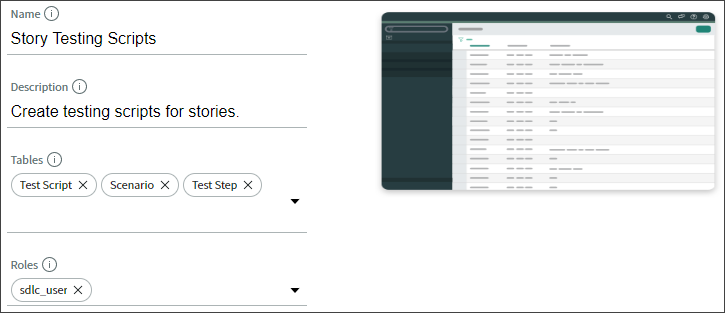
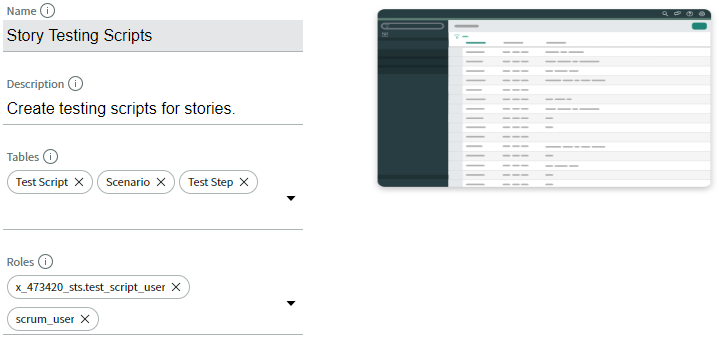
Fixed some issues
Fixed some grammatical mistakes and added new picture with two roles.

diff --git a/guidebook.md b/guidebook.md
@@ -8,17 +8,17 @@ Test scripts are sets of instructions that can be performed on a system to valid
 
 ## What are testing scripts and why should I use them?
 There are two applications in ServiceNow for executing test scripts: 
-Test Management: used to manage manual testing 
-Automated Test Framework: used for automated testing
+  * Test Management - used to manage manual testing 
+  * Automated Test Framework - used for automated testing
 
 In this lab, we will configure the platform to use both applications.
 
-To activate, in the application navigator, goto Plugins and activate each of the following plugins:
-a. Agile Development 2.0
-b. Agile development 2.0 ATF Tests
-c. Test Management 2.0
-d. Test Management 2.0 - ATF Tests 
-e. Automated Test Framework (already enabled)
+To activate, in the application navigator, go to Plugins and activate each of the following plugins:
+  * a. Agile Development 2.0
+  * b. Agile development 2.0 ATF Tests
+  * c. Test Management 2.0
+  * d. Test Management 2.0 - ATF Tests 
+  * e. Automated Test Framework (already enabled)
 
 ![](images/plugins.pdf)
 ![](images/plugins.png)
@@ -55,7 +55,8 @@ In this lab, we've identified a commonly used test template using excel. We've h
 ![](images/test_script_user_role.png)
 
 9. The role should now appear in the "Roles" list with the scope in front of it.
-![](images/test_script_role_added.png)
+
+    ![](images/test_script_role_added.png)
 
 10. Click **Continue** to go to the next step.
 
@@ -91,7 +92,7 @@ Reviewer's Notes | reviewer_s_notes | String | 1000
 ![](images/test_script_table_name.png)
 
 **Table label:** Test Script  
-**Table name:** x_441376_sts_test_script (Your instance may have a different number in the table name.)
+**Table name:** x_441376_sts_test_script (Your instance may have a different number in the table name.)   
 **Make extensible:** true
 
 17. Click the **Continue** button to create the table. It may take the system a few seconds to create the table.
@@ -118,12 +119,12 @@ Company | company | Reference | 32 | Company [core_company]
 
 22. Verify the fields and click **continue** to go to the table naming page.  
 
-23. Name the table with the information below and then click **Continue** to create the table.It may take a few seconds for the table to be created.
+23. Name the table with the information below and then click **Continue** to create the table. It may take a few seconds for the table to be created.
 
 ![](images/scenario_table_name.png)
 
-**Table label:** Test Script  
-**Table name:** x_441376_sts_scenario (Your instance may have a different number in the table name.)
+**Table label:** Scenario  
+**Table name:** x_441376_sts_scenario (Your instance may have a different number in the table name.)   
 **Make extensible:** true  
 
 24. You should see the "Success! Your table is ready" page. Click **Continue** to move onto the next page.
@@ -156,9 +157,9 @@ Result State | result_state | Choice | Dropdown with none  |
 
 ![](images/test_step_table_name.png)  
 
-**Table label:** Test Step 
-**Table name:** x_441376_sts_test_step (Your instance may have a different number in the table name.)
-**Make extensible:** true  
+**Table label:** Test Step   
+**Table name:** x_441376_sts_test_step (Your instance may have a different number in the table name.)  
+**Make extensible:** true   
 
 30. You should see the "Success! Your table is ready" page. Click **Continue** to move onto the next page.  
 
@@ -183,7 +184,7 @@ Result State | result_state | Choice | Dropdown with none  |
 **Name:** Story Testing Scripts  
 **Description:** Create testing scripts for stories.  
 **Tables:** Test Script, Scenario, Test Step  
-**Roles:** sdlc_user  
+**Roles:** test_script_user, scrum_user  
 
 2. You should now be on the "Nice! Here are the apps you've designed so far" screen. Review your Story Testing Scripts appliation and click **Done with apps**.   
 
@@ -199,11 +200,16 @@ Result State | result_state | Choice | Dropdown with none  |
 
 ![](images/studio_table_select_test_script.png) 
 
-6. The Test Script table should show up in a new tab in the Studio conetent frame. Scroll down to the bottom of the Test Script table record. Click on **Design Form** in the related list section of the table record.  
+6. The Test Script table should show up in a new tab in the Studio content frame. Scroll down to the bottom of the Test Script table record. Click on **Design Form** in the related list section of the table record.  
 
 ![](images/design_form_related_list.png) 
 
-7. In the Form Designer, change the first section to be a **2 Column layout**. Then drag the Name, Version, Story, Reviewed By, and Tested By fields to the top section. Move the Description field to the bottom 1 column section. There should be no fields in the middle section. Go ahead and delete the section by clicking on the **X** in the corner. Finally, click the **Save** button to save the layout.
+7. * In the Form Designer, change the first section to be a **2 Column layout**. 
+   * Then drag the Name, Version, Story, Reviewed By, and Tested By fields to the top section.
+   *  Move the Description field to the bottom 1 column section. 
+   * There should be no fields in the middle section. 
+   * Go ahead and delete the section by clicking on the **X** in the corner. 
+   * Finally, click the **Save** button to save the layout.
 
 ![](images/test_script_designer_layout.gif)  
 
@@ -215,11 +221,16 @@ Notice that a **Forms & UI -> Forms -> Test Script [Default view]** menu option 
 
 ![](images/studio_table_select_scenario.png)
 
-9. The Scenario table should show up in a new tab in the Studio conetent frame. Scroll down to the bottom of the Scenario table record. Click on **Design Form** in the related list section of the table record. 
+9. The Scenario table should show up in a new tab in the Studio content frame. Scroll down to the bottom of the Scenario table record. Click on **Design Form** in the related list section of the table record. 
 
 ![](images/design_form_related_list.png)  
 
-10. In the Form Designer, add a new section by clicking on the **+**. Make the new section a 1 Column section by clicking the **2 Column** drop-down list and selecting **1 Column**. Drag down the **Prerequisites** and **Description** fields down to the new section on the bottom. Next change the the top Scenario section to a 2 Column section by clicking **1 Column** in the drop-down list and selecting **2 Column**. Now drag the **Personas** and the **Company** field to the right side of the top section. If it matches the video below, go ahead and click **Save**.
+10.  * In the Form Designer, add a new section by clicking on the **+**. 
+     * Make the new section a 1 Column section by clicking the **2 Column** drop-down list and selecting **1 Column**. 
+     * Drag down the **Prerequisites** and **Description** fields down to the new section on the bottom. 
+     * Next change the the top Scenario section to a 2 Column section by clicking **1 Column** in the drop-down list and selecting **2 Column**. 
+     * Now drag the **Personas** and the **Company** field to the right side of the top section. 
+     * If it matches the video below, go ahead and click **Save**.
 
 ![](images/scenario_designer_layout.gif)  
 
@@ -239,7 +250,7 @@ Notice that a **Forms & UI -> Forms -> Scenario [Default view]** menu option was
 
 ![](images/test_step_designer_layout.gif)  
 
-Notice that a **Forms & UI -> Forms -> Scenario [Default view]** menu option was created in the Studio Application Explorer.  
+Notice that a **Forms & UI -> Forms -> Test Step [Default view]** menu option was created in the Studio Application Explorer.  
 
 ![](images/test_step_form_menu_option.png)
 
